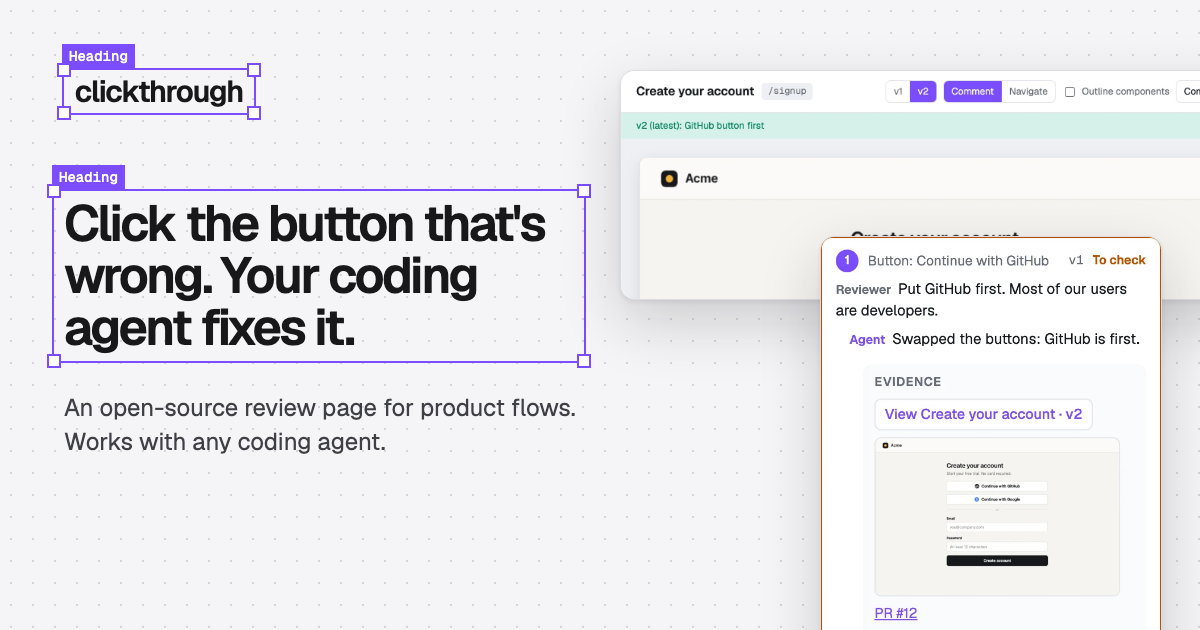
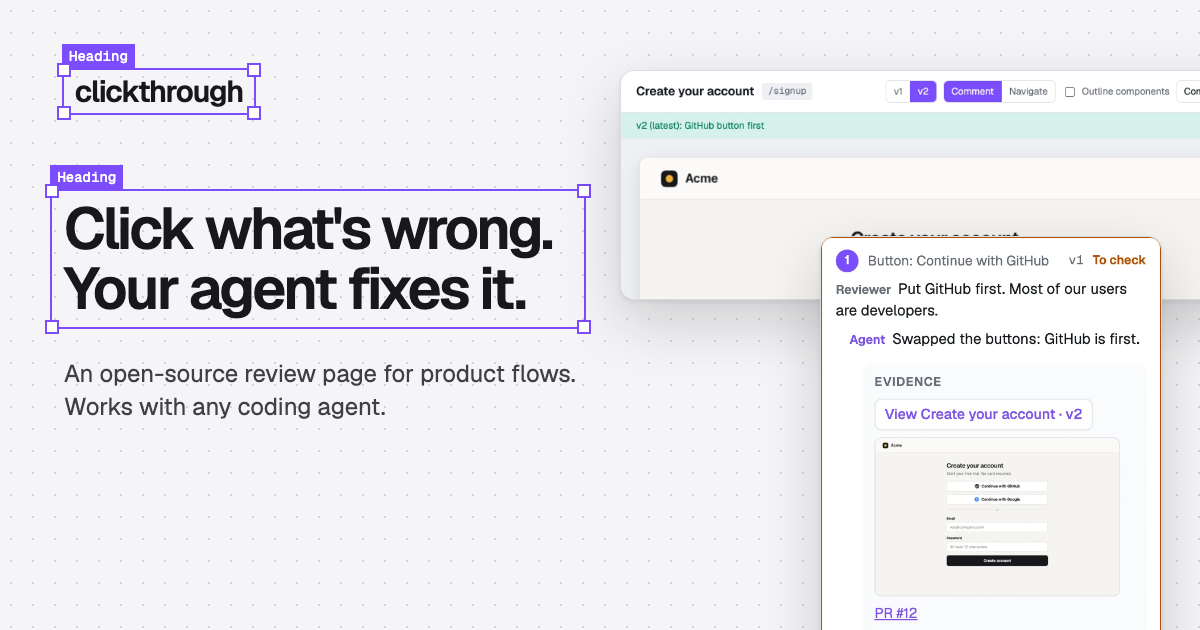
Landing page: centred install button, shorter hero
The install button keeps one width and centres its content, so the logo and
name no longer sit off to one side. The hint under it is gone. The headline
is now "Click what's wrong. Your agent fixes it." and the description is
one short paragraph; the title tag, link-card titles and social image follow.

Changed region(s): [[0.0308, 0.2714, 0.4933, 0.6635], [0.0617, 0.6937, 0.3392, 0.7238]]

diff --git a/site/index.html b/site/index.html
@@ -3,7 +3,7 @@
 <head>
 <meta charset="utf-8">
 <meta name="viewport" content="width=device-width,initial-scale=1,viewport-fit=cover">
-<title>Clickthrough: click the button that's wrong, your coding agent fixes it</title>
+<title>Clickthrough: click what's wrong, your agent fixes it</title>
 <meta name="description" content="An open-source CLI and local review page. Your coding agent captures every screen of a product flow, you click any component and comment, and the agent changes the code and shows its proof.">
 <link rel="canonical" href="https://clickthrough.agustin.build/">
 <meta name="theme-color" content="#f5f5f7">
@@ -11,14 +11,14 @@
 <meta property="og:type" content="website">
 <meta property="og:site_name" content="Clickthrough">
 <meta property="og:url" content="https://clickthrough.agustin.build/">
-<meta property="og:title" content="Click the button that's wrong. Your coding agent fixes it.">
+<meta property="og:title" content="Click what's wrong. Your agent fixes it.">
 <meta property="og:description" content="Your agent captures every screen of a product flow, with every branch. You click through them, comment on any component, and the agent changes the code and shows its proof. Open source, runs locally.">
 <meta property="og:image" content="https://clickthrough.agustin.build/og.png">
 <meta property="og:image:width" content="1200">
 <meta property="og:image:height" content="630">
 <meta property="og:image:alt" content="Clickthrough showing a signup screen with a comment on the GitHub button, marked Done by the agent with a new version, a screenshot, a PR link and a passing check.">
 <meta name="twitter:card" content="summary_large_image">
-<meta name="twitter:title" content="Click the button that's wrong. Your coding agent fixes it.">
+<meta name="twitter:title" content="Click what's wrong. Your agent fixes it.">
 <meta name="twitter:description" content="Review a product flow screen by screen, comment on any component, and let your coding agent make the change. Open source, runs locally.">
 <meta name="twitter:image" content="https://clickthrough.agustin.build/og.png">
 <meta name="twitter:image:alt" content="Clickthrough showing a signup screen with a comment on the GitHub button, marked Done by the agent with a new version, a screenshot, a PR link and a passing check.">
@@ -73,8 +73,8 @@
 
 <main id="main">
   <section class="hero" id="top">
-    <h1><span class="sel" data-k="Heading"><i></i><i></i><i></i><i></i>Click the button that's wrong. Your coding agent fixes it.</span></h1>
-    <p class="lede">Clickthrough is a local review page for product flows. Your agent captures every screen of signup, onboarding or checkout, with every branch. You click through them like the real app and comment on any component. The agent changes the code, captures the screen again and shows its proof.</p>
+    <h1><span class="sel" data-k="Heading"><i></i><i></i><i></i><i></i>Click what's wrong. Your agent fixes it.</span></h1>
+    <p class="lede">Your agent captures every screen of a flow. You click through it and comment on any component. The agent changes the code and shows its proof.</p>
     <div class="cta">
       <button type="button" class="install" data-copy-from="agent-prompt" aria-label="Copy the install prompt for your coding agent">Install with <span class="rotor" aria-hidden="true"><span><img src="media/agents/claude-code.svg" alt="" width="22" height="22">Claude Code</span></span></button>
       <div class="cmd" data-c="Code">
@@ -82,7 +82,6 @@
         <button type="button" class="copy" data-copy="npm install -g clickthrough">Copy</button>
       </div>
     </div>
-    <p class="fine install-hint" aria-live="polite">The button copies a prompt. Paste it into your coding agent: it installs Clickthrough, captures your flow and opens the review.</p>
     <p class="fine">Open source, MIT. Needs Node 18 or newer. No dependencies, no account, nothing leaves your machine.</p>
 
     <figure class="shot hero-shot">

diff --git a/site/styles.css b/site/styles.css
@@ -88,7 +88,7 @@ section p { color: #2c303b; }
 .wide { max-width: 40em; }
 
 .hero { padding-top: 28px; }
-.lede { font-size: clamp(1.0625rem, 2.2vw, 1.25rem); line-height: 1.5; max-width: 36em; margin: 24px 0 26px; }
+.lede { font-size: clamp(1.0625rem, 2.2vw, 1.25rem); line-height: 1.5; max-width: 30em; margin: 24px 0 26px; }
 .fine { font-size: 14.5px; color: var(--muted); margin: 14px 0 0; max-width: none; }
 .cta { display: flex; flex-wrap: wrap; align-items: center; gap: 12px 22px; }
 .ghost { font-weight: 500; color: var(--ink); }
@@ -193,16 +193,15 @@ footer { max-width: 1040px; margin: 0 auto; padding: 22px 20px 40px; border-top:
 @media (prefers-reduced-motion: reduce) { html { scroll-behavior: auto; } }
 
 /* The install button: its agent name rotates; a click copies the setup prompt */
-.install { display: inline-flex; align-items: center; gap: 0.35em; font: 600 16px var(--sans); color: #fff; background: var(--select); border: 0; border-radius: 10px; padding: 13px 18px; cursor: pointer; white-space: nowrap; }
+.install { display: inline-flex; align-items: center; justify-content: center; gap: 0.4em; min-width: 16.2em; font: 600 16px/1 var(--sans); color: #fff; background: var(--select); border: 0; border-radius: 10px; padding: 11px 18px; cursor: pointer; white-space: nowrap; }
 .install:hover { filter: brightness(1.08); }
 .install.ok { background: var(--green); }
-.rotor { display: inline-block; min-width: 8.1em; text-align: left; overflow: hidden; vertical-align: bottom; }
-.rotor span { display: inline-flex; align-items: center; gap: 0.45em; }
+.rotor { display: inline-flex; align-items: center; height: 26px; overflow: hidden; }
+.rotor span { display: inline-flex; align-items: center; gap: 0.45em; height: 26px; }
 .rotor img { flex: none; width: 22px; height: 22px; border-radius: 5px; display: block; }
 .rotor span.in { animation: rotor-in 0.32s cubic-bezier(0.2, 0.7, 0.2, 1); }
 @keyframes rotor-in { from { transform: translateY(70%); opacity: 0; } to { transform: none; opacity: 1; } }
 @media (prefers-reduced-motion: reduce) { .rotor span.in { animation: none; } }
-.install-hint { max-width: 40em; }
 .see-prompt { margin: 0 0 14px; }
 .see-prompt summary { cursor: pointer; font-size: 15px; font-weight: 500; color: var(--select); }
 .see-prompt .setup-prompt { margin-top: 10px; background: var(--canvas); color: var(--ink); border: 1px solid var(--line); border-radius: 8px; padding: 12px 14px; font: 13px/1.6 var(--mono); white-space: pre-wrap; overflow-wrap: anywhere; }

diff --git a/site/demo/og.html b/site/demo/og.html
@@ -13,7 +13,7 @@
   .sel i:nth-of-type(1) { left: -7px; top: -7px; } .sel i:nth-of-type(2) { right: -7px; top: -7px; }
   .sel i:nth-of-type(3) { left: -7px; bottom: -7px; } .sel i:nth-of-type(4) { right: -7px; bottom: -7px; }
   .brand { font-weight: 600; font-size: 30px; letter-spacing: -0.035em; line-height: 1; }
-  h1 { font: 600 50px/1.04 "Geist", sans-serif; letter-spacing: -0.045em; margin: 78px 0 0; }
+  h1 { font: 600 58px/1.03 "Geist", sans-serif; letter-spacing: -0.045em; margin: 78px 0 0; }
   h1 .sel { padding: .14em .2em; margin-left: -.2em; }
   p { margin: 30px 0 0; color: #3f3f46; }
   img { position: absolute; display: block; background: #fff; border: 1px solid #dcdce2; border-radius: 14px; box-shadow: 0 2px 4px rgb(24 24 27 / .08), 0 22px 60px rgb(24 24 27 / .18); }
@@ -22,7 +22,7 @@
 </style>
 <div class="text">
   <div class="brand"><span class="sel" data-k="Heading"><i></i><i></i><i></i><i></i>clickthrough</span></div>
-  <h1><span class="sel" data-k="Heading"><i></i><i></i><i></i><i></i>Click the button that's wrong. Your coding agent fixes it.</span></h1>
+  <h1><span class="sel" data-k="Heading"><i></i><i></i><i></i><i></i>Click what's wrong. Your agent fixes it.</span></h1>
   <p>An open-source review page for product flows. Works with any coding agent.</p>
 </div>
 <img class="screen" src="../media/versions.webp" alt="">

diff --git a/site/launch/alt-text.md b/site/launch/alt-text.md
@@ -6,7 +6,7 @@ Screen recording of Clickthrough. A list of projects opens a signup flow shown a
 
 **og.png (link card)**
 
-Clickthrough. Headline: "Click the button that's wrong. Your coding agent fixes it." Next to it, a comment on a signup screen's GitHub button, marked Done by the agent with a new version, a screenshot, a PR link and a passing check.
+Clickthrough. Headline: "Click what's wrong. Your agent fixes it." Next to it, a comment on a signup screen's GitHub button, marked Done by the agent with a new version, a screenshot, a PR link and a passing check.
 
 **tree.png**
 
